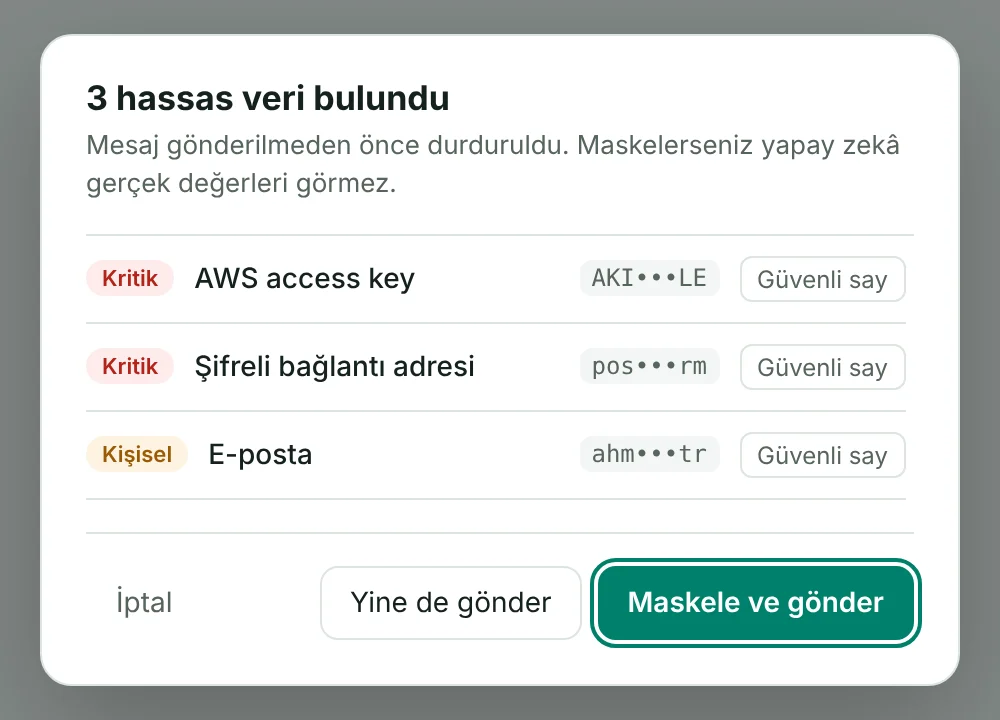
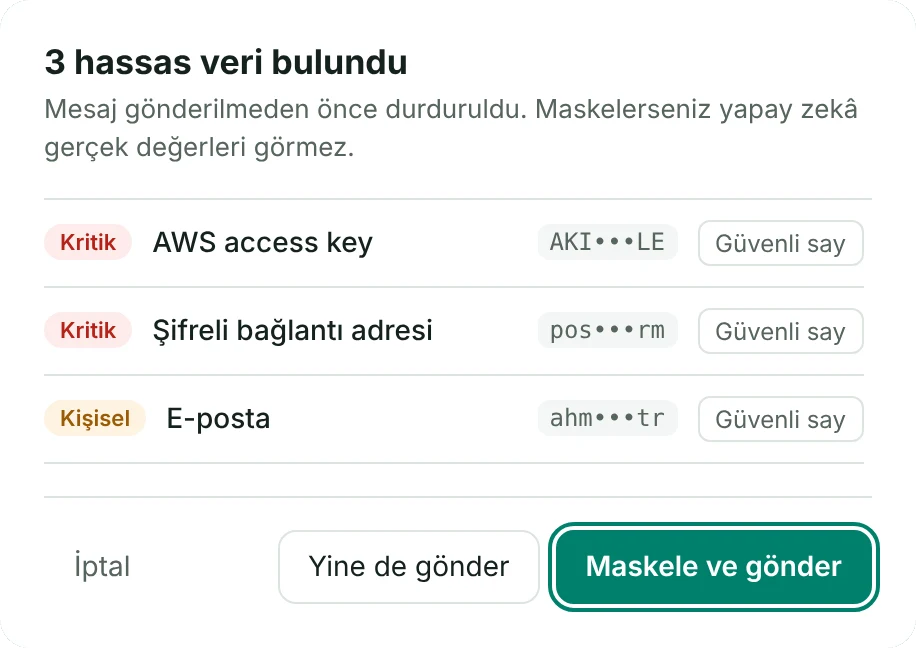
Add files via upload

diff --git a/style.css b/style.css
@@ -133,25 +133,29 @@ section.block { padding: 96px 0 0; }
 .head h2 { font-size: clamp(30px, 3.6vw, 42px); font-weight: 700; }
 .head p { color: var(--muted); font-size: 18px; margin: 14px 0 0; }
 
-.steps { display: grid; gap: 28px; counter-reset: s; margin: 0; padding: 0; list-style: none; }
-.steps li { counter-increment: s; display: grid; grid-template-columns: 1.25fr 1fr; align-items: center; gap: 48px; padding: 28px; border: 1px solid var(--line); border-radius: 18px; background: var(--card); transition: border-color 0.25s ease; }
-.steps li:nth-child(even) { grid-template-columns: 1fr 1.25fr; }
-.steps li:nth-child(even) .shot { order: 2; }
-.steps li:hover { border-color: color-mix(in srgb, var(--accent) 60%, var(--line)); }
-.steps .shot { aspect-ratio: 16 / 10; display: grid; grid-template: minmax(0, 1fr) / minmax(0, 1fr); place-items: center; padding: 20px; border-radius: 12px; background: linear-gradient(160deg, color-mix(in srgb, var(--accent) 14%, var(--paper)), var(--paper)); border: 1px solid var(--line); overflow: hidden; }
-.steps .shot img { display: block; max-width: 100%; max-height: 100%; width: auto; height: auto; border-radius: 8px; box-shadow: 0 18px 40px -20px rgba(10, 30, 24, 0.55); }
-.steps .txt::before { content: counter(s); display: grid; place-items: center; width: 40px; height: 40px; border-radius: 50%; background: var(--accent-soft); color: var(--token-ink); font: 700 17px var(--display); margin-bottom: 18px; }
-.steps h3 { font-size: 26px; margin-bottom: 10px; }
-.steps p { margin: 0; color: var(--muted); font-size: 17px; }
-.cta { position: relative; overflow: hidden; isolation: isolate; gap: 10px; padding: 13px 22px; box-shadow: 0 10px 28px -12px color-mix(in srgb, var(--accent) 80%, transparent); transition: transform 0.2s ease, box-shadow 0.2s ease; }
-.cta svg { width: 18px; height: 18px; flex: none; fill: none; stroke: currentColor; stroke-width: 2.2; stroke-linecap: round; stroke-linejoin: round; }
-.cta .arr { display: inline-block; transition: transform 0.2s ease; }
-.cta::after { content: ''; position: absolute; inset: 0; z-index: -1; background: linear-gradient(110deg, transparent 30%, rgba(255, 255, 255, 0.35) 50%, transparent 70%); transform: translateX(-120%); animation: cta-shine 3.6s ease-in-out 1s infinite; }
-.cta:hover { transform: translateY(-2px); box-shadow: 0 16px 34px -12px color-mix(in srgb, var(--accent) 90%, transparent); }
-.cta:hover .arr { transform: translateX(4px); }
-@keyframes cta-shine { 0% { transform: translateX(-120%); } 35%, 100% { transform: translateX(120%); } }
-@media (max-width: 820px) { .steps li, .steps li:nth-child(even) { grid-template-columns: 1fr; gap: 22px; padding: 18px; } .steps li:nth-child(even) .shot { order: 0; } .steps .shot { padding: 12px; } }
-@media (max-width: 820px) { .steps { grid-template-columns: 1fr; } }
+.flow { display: grid; grid-template-columns: minmax(0, 0.9fr) minmax(0, 1.3fr); gap: 40px; align-items: center; }
+.flow-steps { list-style: none; margin: 0; padding: 0; display: grid; gap: 12px; }
+.flow-step { position: relative; overflow: hidden; width: 100%; display: flex; gap: 16px; align-items: flex-start; text-align: left; padding: 20px 22px; border-radius: 14px; border: 1px solid var(--line); background: transparent; color: var(--ink); font: inherit; cursor: pointer; transition: background 0.3s ease, border-color 0.3s ease; }
+.flow-step:hover { border-color: color-mix(in srgb, var(--accent) 45%, var(--line)); }
+.flow-step .n { flex: none; display: grid; place-items: center; width: 34px; height: 34px; border-radius: 50%; background: var(--accent-soft); color: var(--token-ink); font: 700 15px var(--display); transition: background 0.3s, color 0.3s; }
+.flow-step .t { display: grid; gap: 4px; }
+.flow-step b { font: 700 19px var(--display); }
+.flow-step .t > span { color: var(--muted); font-size: 15px; line-height: 1.55; max-height: 0; opacity: 0; overflow: hidden; transition: max-height 0.4s ease, opacity 0.3s ease; }
+.flow-step.is-active { background: var(--card); border-color: color-mix(in srgb, var(--accent) 55%, var(--line)); box-shadow: 0 18px 40px -30px rgba(10, 30, 24, 0.6); }
+.flow-step.is-active .n { background: var(--accent); color: var(--accent-ink); }
+.flow-step.is-active .t > span { max-height: 120px; opacity: 1; }
+.flow-step .prog { position: absolute; left: 0; bottom: 0; height: 3px; width: 100%; background: var(--accent); transform: scaleX(0); transform-origin: left; }
+.flow.playing .flow-step.is-active .prog { animation: flow-prog var(--flow-ms, 5000ms) linear forwards; }
+.flow.paused .flow-step.is-active .prog { animation-play-state: paused; }
+@keyframes flow-prog { to { transform: scaleX(1); } }
+.stage { border-radius: 16px; border: 1px solid var(--line); background: var(--card); overflow: hidden; box-shadow: 0 30px 70px -40px rgba(10, 30, 24, 0.6); }
+.stage-top { display: flex; align-items: center; gap: 7px; height: 38px; padding: 0 14px; border-bottom: 1px solid var(--line); font-size: 12.5px; color: var(--muted); }
+.stage-top i { width: 10px; height: 10px; border-radius: 50%; background: var(--line); }
+.stage-top span { margin-left: 10px; }
+.stage-body { position: relative; aspect-ratio: 16 / 10.5; background: linear-gradient(160deg, color-mix(in srgb, var(--accent) 16%, var(--paper)), var(--paper) 75%); }
+.stage-body img { position: absolute; inset: 0; margin: auto; max-width: 88%; max-height: 82%; width: auto; height: auto; border-radius: 10px; box-shadow: 0 22px 50px -24px rgba(10, 30, 24, 0.6); opacity: 0; transform: translateY(18px) scale(0.97); transition: opacity 0.55s ease, transform 0.65s cubic-bezier(.2, .7, .2, 1); }
+.stage-body img.is-active { opacity: 1; transform: none; }
+@media (max-width: 860px) { .flow { grid-template-columns: 1fr; gap: 20px; } .stage { order: -1; } .flow-step { padding: 16px; } }
 
 .catch { display: grid; grid-template-columns: repeat(2, 1fr); gap: 20px; align-items: start; }
 .cat-col { display: grid; gap: 20px; }
@@ -311,7 +315,7 @@ footer nav a:hover { color: var(--accent); }
 @media (prefers-reduced-motion: reduce) {
   html { scroll-behavior: auto; }
   .pulse, .pulse::after, .scan, .ticker .t-val.tok, .cta::after { animation: none; }
-  .cat, .steps li, .plan, .road-item, .more, .more-btn::after, .faq details::details-content { transition: none; }
-  .cat:hover, .steps li:hover, .plan:hover, .road-item:hover { transform: none; }
+  .cat, .flow-step, .stage-body img, .plan, .road-item, .more, .more-btn::after, .faq details::details-content { transition: none; }
+  .cat:hover, .plan:hover, .road-item:hover { transform: none; }
   .totop { transition: none; }
 }

diff --git a/index.html b/index.html
@@ -101,29 +101,39 @@
           <h2>Enter'a bastığın an devreye girer</h2>
           <p>Ayrı bir uygulama açmana ya da alışkanlığını değiştirmene gerek yok. Yapay zekâyı her zamanki gibi kullanırsın.</p>
         </div>
-        <ol class="steps">
-          <li>
-            <div class="shot"><img src="img/adim-1.webp" alt="Hassas veri yapıştırılınca çıkan TypeShield bildirimi" width="1200" height="393" loading="lazy" /></div>
-            <div class="txt">
-            <h3>Yazarsın</h3>
-            <p>Mesajını yazar ya da bir belgeden yapıştırırsın. Hassas bir şey yapıştırdığında hemen haber verir, Gönder'e bastığın anda da <span data-brand>TypeShield</span> metni tarar.</p>
+        <div class="flow" id="flow">
+          <ol class="flow-steps">
+            <li>
+              <button type="button" class="flow-step is-active" data-step="0" aria-pressed="true">
+                <span class="n">1</span>
+                <span class="t"><b>Yazarsın</b><span>Mesajını yazar ya da yapıştırırsın. Hassas bir şey yapıştırdığında <span data-brand>TypeShield</span> hemen haber verir.</span></span>
+                <i class="prog" aria-hidden="true"></i>
+              </button>
+            </li>
+            <li>
+              <button type="button" class="flow-step" data-step="1" aria-pressed="false">
+                <span class="n">2</span>
+                <span class="t"><b>Yakalar</b><span>Gönder'e bastığında hassas veri varsa gönderim durur ve neyin bulunduğunu gösteren bir pencere açılır.</span></span>
+                <i class="prog" aria-hidden="true"></i>
+              </button>
+            </li>
+            <li>
+              <button type="button" class="flow-step" data-step="2" aria-pressed="false">
+                <span class="n">3</span>
+                <span class="t"><b>Maskelersin</b><span>Tek tıkla veriler <span class="tok">[TCKN_001]</span> gibi etiketlere dönüşür. Yapay zekâ işini yapar, gerçek değeri görmez.</span></span>
+                <i class="prog" aria-hidden="true"></i>
+              </button>
+            </li>
+          </ol>
+          <div class="stage">
+            <div class="stage-top" aria-hidden="true"><i></i><i></i><i></i><span>chatgpt.com</span></div>
+            <div class="stage-body">
+              <img class="is-active" src="img/adim-1.webp" alt="Hassas veri yapıştırılınca çıkan TypeShield bildirimi" width="1200" height="393" loading="lazy" />
+              <img src="img/adim-2.webp" alt="TypeShield uyarı penceresi: 3 hassas veri bulundu" width="916" height="648" loading="lazy" />
+              <img src="img/adim-3.webp" alt="Yapay zekâya maskelenmiş olarak giden mesaj" width="920" height="300" loading="lazy" />
             </div>
-          </li>
-          <li>
-            <div class="shot"><img src="img/adim-2.webp" alt="TypeShield uyarı penceresi: 3 hassas veri bulundu" width="1000" height="720" loading="lazy" /></div>
-            <div class="txt">
-            <h3>Yakalar</h3>
-            <p>Hassas veri yoksa mesaj hiç beklemeden gider. Varsa gönderim durur ve neyin bulunduğunu gösteren bir pencere açılır.</p>
-            </div>
-          </li>
-          <li>
-            <div class="shot"><img src="img/adim-3.webp" alt="Yapay zekâya maskelenmiş olarak giden mesaj" width="920" height="300" loading="lazy" /></div>
-            <div class="txt">
-            <h3>Maskelersin</h3>
-            <p>Tek tıkla veriler <span class="tok">[TCKN_001]</span> gibi etiketlere dönüşür. Yapay zekâ metni anlar ve işini yapar, gerçek değeri görmez.</p>
-            </div>
-          </li>
-        </ol>
+          </div>
+        </div>
       </div>
     </section>
 

diff --git a/script.js b/script.js
@@ -196,3 +196,67 @@ const toggleTop = () => totop.classList.toggle('show', window.scrollY > 600);
 window.addEventListener('scroll', toggleTop, { passive: true });
 toggleTop();
 totop.addEventListener('click', () => window.scrollTo({ top: 0, behavior: reduceMotion ? 'auto' : 'smooth' }));
+
+const flow = document.getElementById('flow');
+if (flow) {
+  const steps = [...flow.querySelectorAll('.flow-step')];
+  const shots = [...flow.querySelectorAll('.stage-body img')];
+  const MS = 5000;
+  let current = 0;
+  let timer = null;
+  let visible = false;
+  let hovered = false;
+  flow.style.setProperty('--flow-ms', MS + 'ms');
+  const show = (i) => {
+    current = (i + steps.length) % steps.length;
+    steps.forEach((s, k) => {
+      s.classList.toggle('is-active', k === current);
+      s.setAttribute('aria-pressed', String(k === current));
+      const bar = s.querySelector('.prog');
+      bar.style.animation = 'none';
+      void bar.offsetWidth;
+      bar.style.animation = '';
+    });
+    shots.forEach((img, k) => img.classList.toggle('is-active', k === current));
+  };
+  const stop = () => {
+    clearTimeout(timer);
+    timer = null;
+  };
+  const run = () => {
+    stop();
+    if (reduceMotion || !visible || hovered) return;
+    timer = setTimeout(() => {
+      show(current + 1);
+      run();
+    }, MS);
+  };
+  const sync = () => {
+    const playing = !reduceMotion && visible;
+    flow.classList.toggle('playing', playing);
+    flow.classList.toggle('paused', hovered);
+    run();
+  };
+  steps.forEach((s, k) =>
+    s.addEventListener('click', () => {
+      show(k);
+      sync();
+    }),
+  );
+  flow.addEventListener('mouseenter', () => {
+    hovered = true;
+    sync();
+  });
+  flow.addEventListener('mouseleave', () => {
+    hovered = false;
+    show(current);
+    sync();
+  });
+  if ('IntersectionObserver' in window) {
+    new IntersectionObserver((entries) => {
+      visible = entries[0].isIntersecting;
+      sync();
+    }, { threshold: 0.35 }).observe(flow);
+  }
+  show(0);
+}
